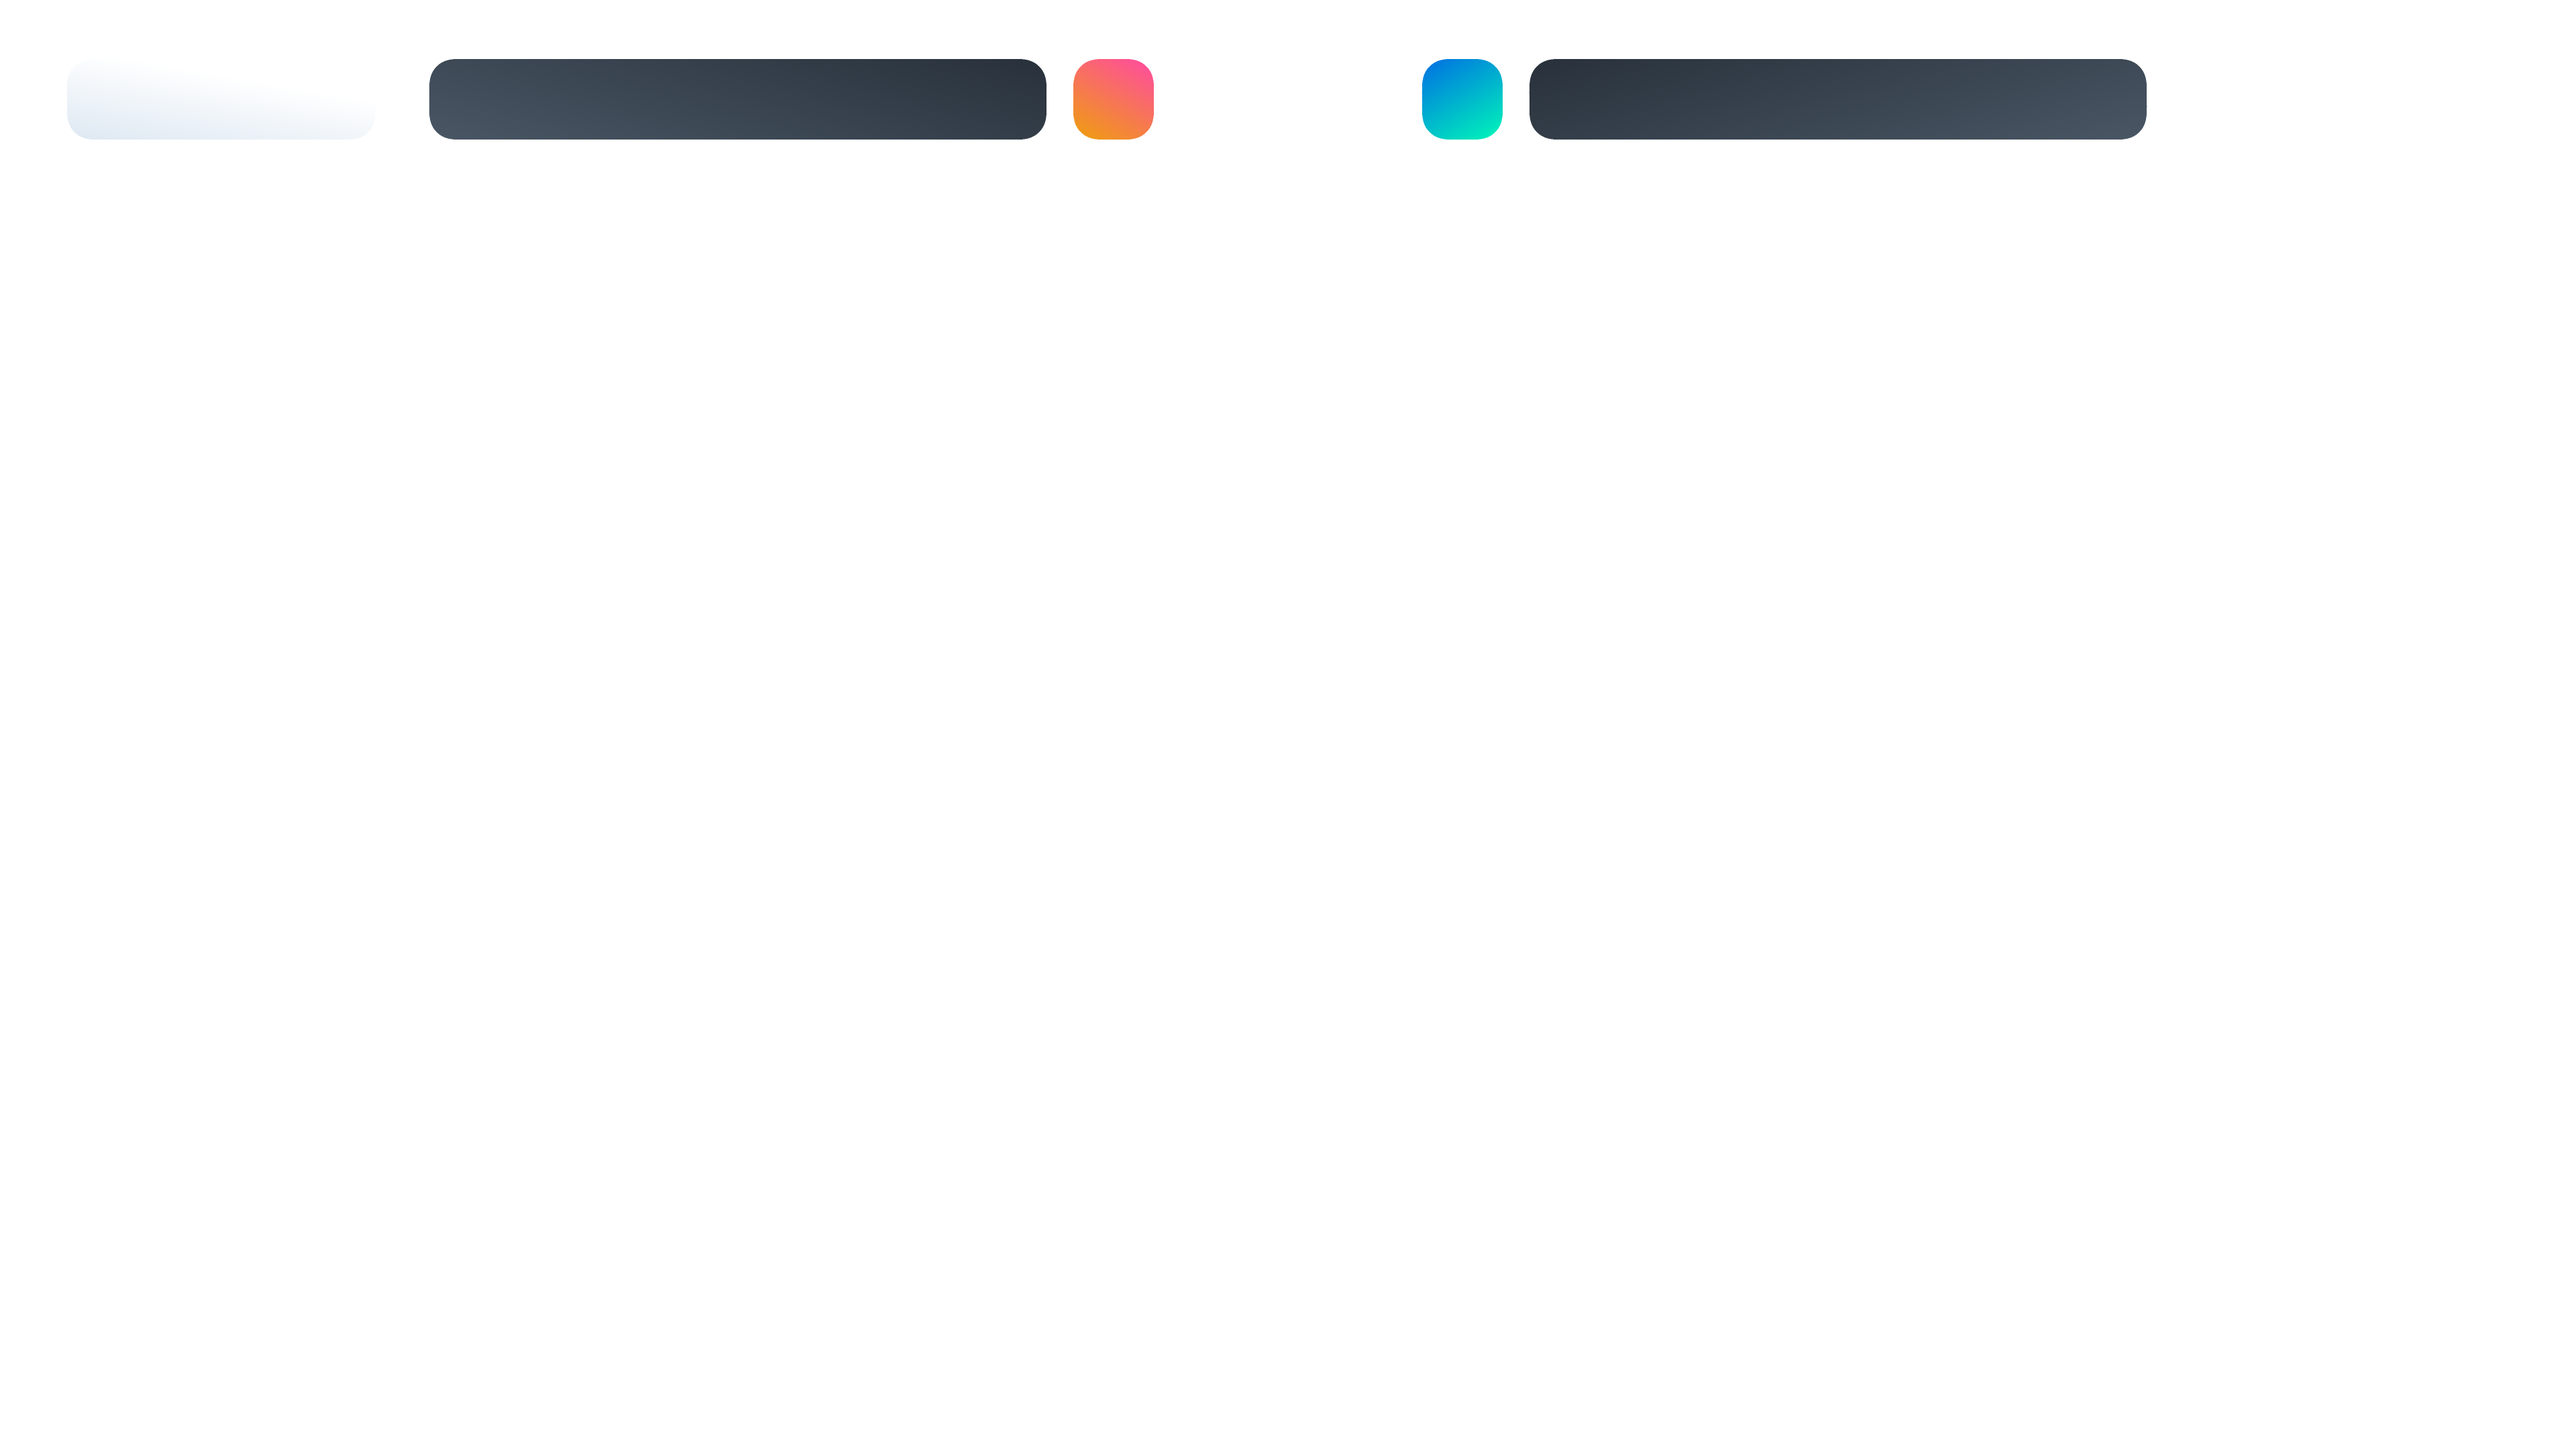
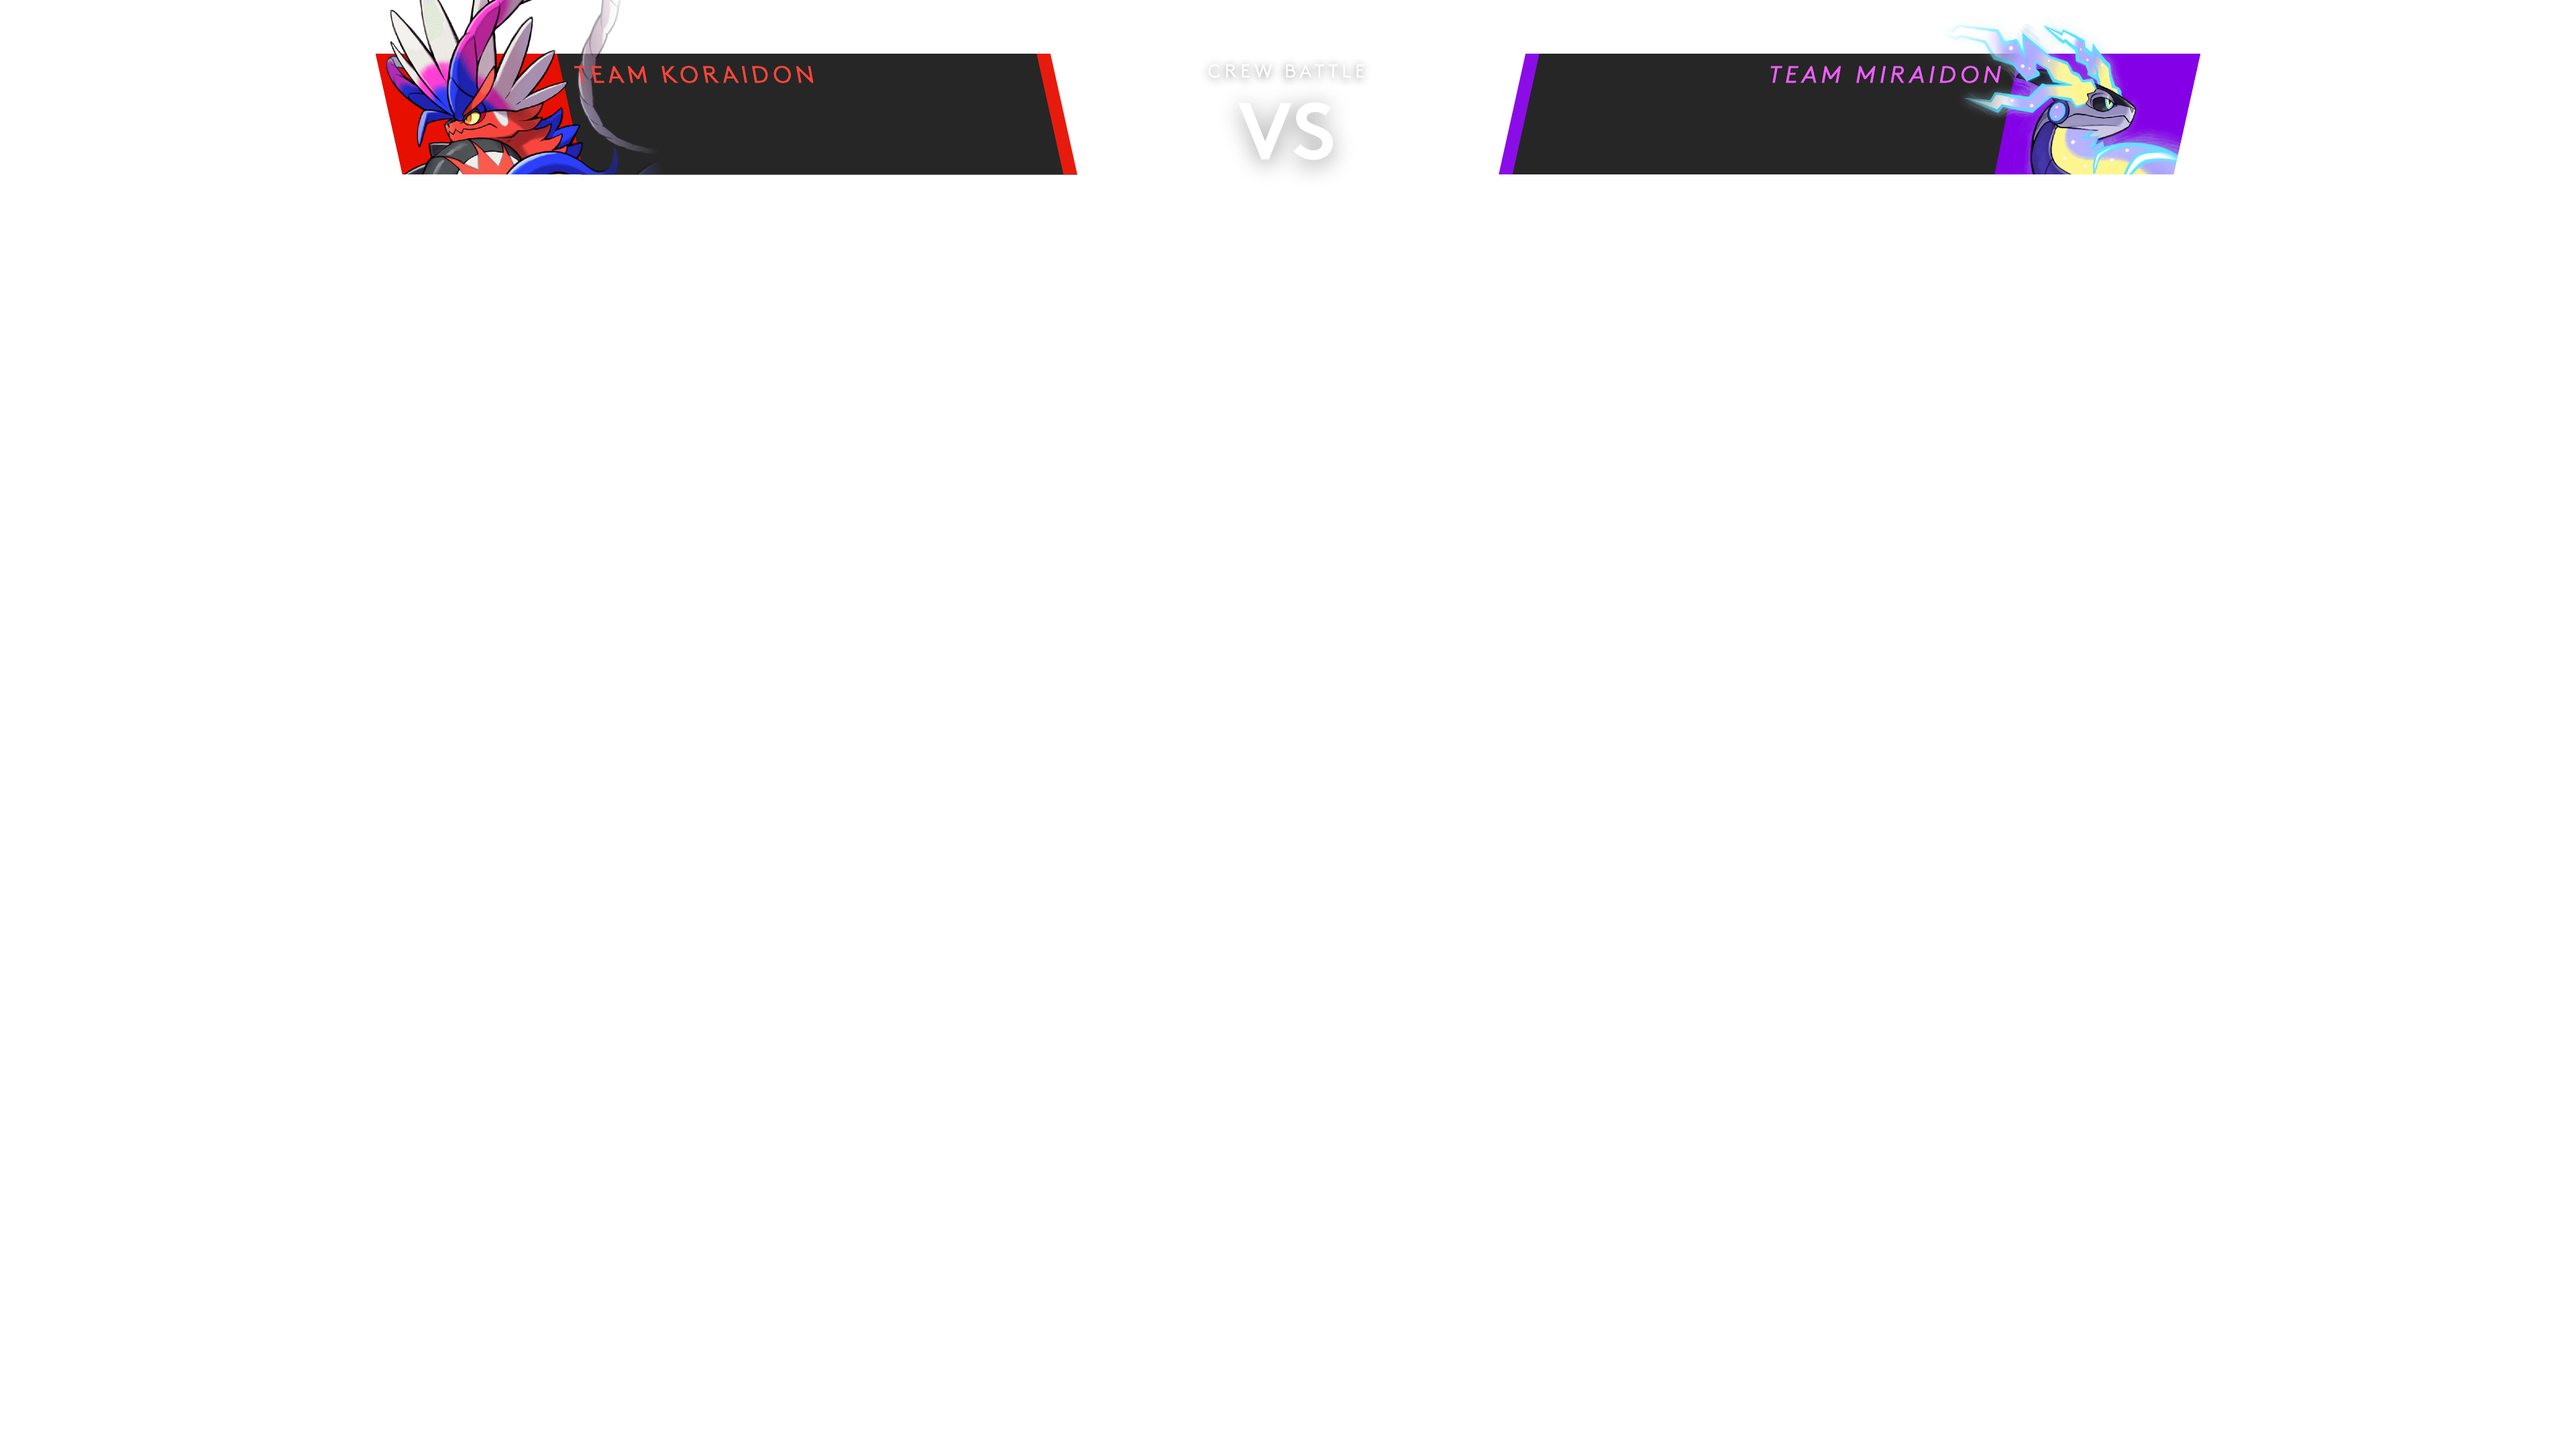
専用デザインを実装

Changed region(s): [[0.125, 0.0, 0.875, 0.1241], [0.0312, 0.062, 0.0625, 0.1241]]

diff --git a/components/obs/score/Single.scss b/components/obs/score/Single.scss
@@ -20,26 +20,28 @@
     @include score;
     @include blackWeight;
 
-    top: 44px;
-    width: 60px;
-    font-size: 40px;
+    top: 38px;
+    width: 120px;
+    font-family: Oswald, serif;
+    font-size: 60px;
 
     &.p1 {
-      left: 800px;
+      left: 782px;
+      color: #e60f00;
     }
 
     &.p2 {
-      right: 800px;
+      right: 782px;
+      color: #8400e6;
     }
   }
 
   // プレイヤー名の位置指定
   .player {
     position: absolute;
-    top: 61px;
+    top: 77px;
     width: 460px;
     height: 60px;
-    text-align: center;
 
     span {
       margin-left: 10px;
@@ -50,18 +52,20 @@
     }
 
     &.p1 {
-      left: 320px;
+      left: 447px;
+      text-align-last: left;
     }
 
     &.p2 {
-      right: 320px;
+      right: 447px;
+      text-align: right;
     }
 
     .team {
       @include mediumWeight;
 
-      font-size: 29px;
-      line-height: 29px;
+      font-size: 34px;
+      line-height: 34px;
       color: var(--player-color);
       text-align: center;
       letter-spacing: 1px;
@@ -70,8 +74,8 @@
     .name {
       @include blackWeight;
 
-      font-size: 29px;
-      line-height: 29px;
+      font-size: 34px;
+      line-height: 34px;
       color: var(--player-color);
       text-align: center;
       letter-spacing: 1px;
@@ -104,6 +108,8 @@
   .round,
   .matchType {
     @include status;
+
+    display: none;
   }
 
   .cameraRight,

diff --git a/pages/_document.tsx b/pages/_document.tsx
@@ -16,6 +16,10 @@ class MyDocument extends Document {
             rel="stylesheet"
             href="https://fonts.googleapis.com/css2?family=Noto+Sans+JP:wght@100;300;400;500;700;900&display=swap"
           />
+          <link
+            href="https://api.fontshare.com/v2/css?f[]=oswald@700&display=swap"
+            rel="stylesheet"
+          />
           <Script
             src="https://webfont.fontplus.jp/accessor/script/fontplus.js?qdfWifIcjAc%3D&box=PeMTC~FUu4w%3D&chws=1&aa=1&ab=1"
             strategy="beforeInteractive"
